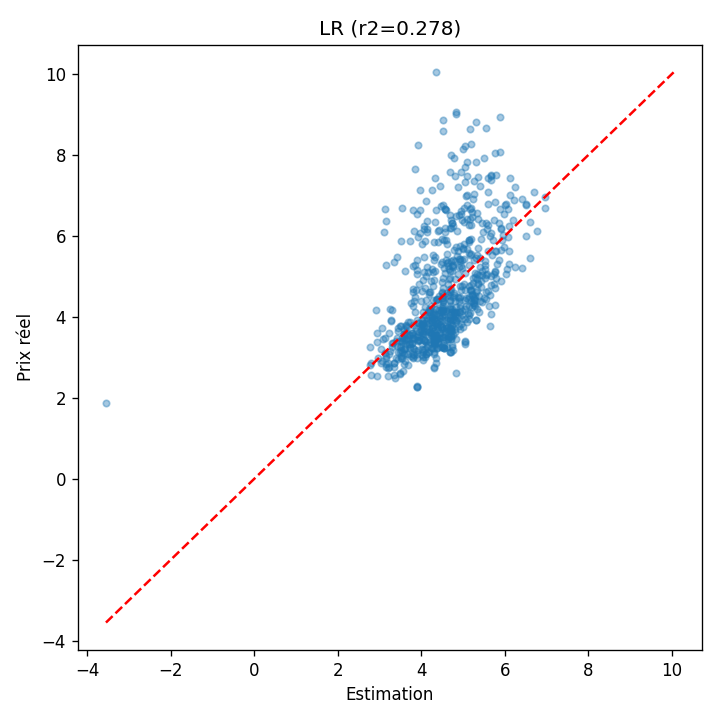
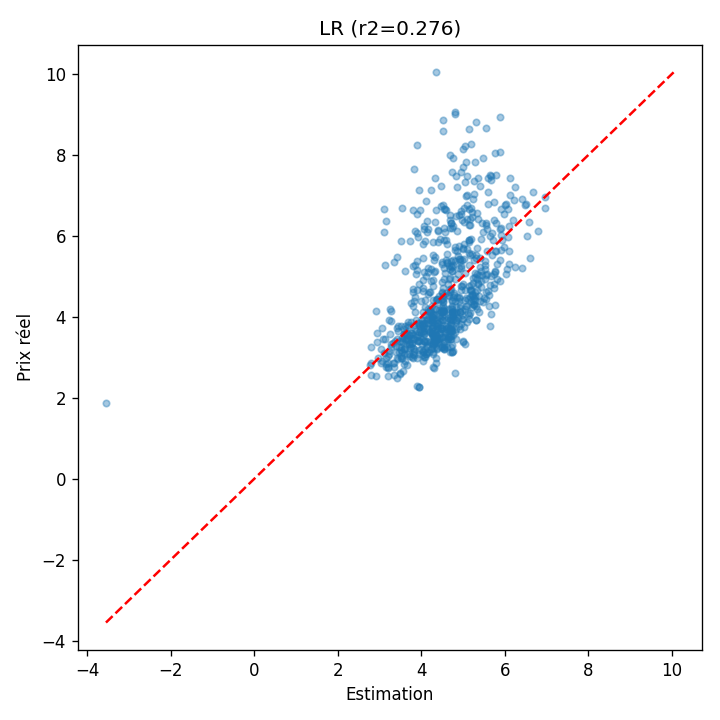
Refine ML pipelines and admin UX
This commit fixes a jump-alignment bug in the Java Chicks walking state, simplifies the F1 speed-state transition logic, and centralizes Laravel search handling with reusable empty-table row components across admin pages. It also refactors Python ML evaluation helpers, normalizes mushroom shape/surface parsing, and updates the wine-model pipeline to avoid train/test leakage when imputing missing critic scores, with refreshed metrics and figures.

diff --git a/PYTHON/immo-ml/main.py b/PYTHON/immo-ml/main.py
@@ -212,6 +212,14 @@ def normaliser(serie):
              .str.replace(r"(franconville).*", "franconville", regex=True)
     )
 
+def evaluer(modele, X_tr, y_tr, X_te, y_te, pre=None):
+    if pre == "norm":
+        modele = make_pipeline(MinMaxScaler(), modele)
+    elif pre == "std":
+        modele = make_pipeline(StandardScaler(), modele)
+    modele.fit(X_tr, y_tr)
+    return modele.score(X_te, y_te), modele.predict(X_te)
+
 def main():
     annonces = pd.read_csv(os.path.join(DATA_DIR, 'annonces.csv'))
     avant = len(annonces)
@@ -261,17 +269,9 @@ def main():
         annonces.loc[X_train.index, col] = X_train[col]
         annonces.loc[X_test.index, col] = X_test[col]
 
-    lr = LinearRegression()
-    lr.fit(X_train, y_train)
-    r2_lr = lr.score(X_test, y_test)
-
-    pipe_lr_norm = make_pipeline(MinMaxScaler(), LinearRegression())
-    pipe_lr_norm.fit(X_train, y_train)
-    r2_lr_norm = pipe_lr_norm.score(X_test, y_test)
-
-    pipe_lr_std = make_pipeline(StandardScaler(), LinearRegression())
-    pipe_lr_std.fit(X_train, y_train)
-    r2_lr_std = pipe_lr_std.score(X_test, y_test)
+    r2_lr, _ = evaluer(LinearRegression(), X_train, y_train, X_test, y_test)
+    r2_lr_norm, _ = evaluer(LinearRegression(), X_train, y_train, X_test, y_test, pre="norm")
+    r2_lr_std, _ = evaluer(LinearRegression(), X_train, y_train, X_test, y_test, pre="std")
 
     # recherche du meilleur max_depth par validation croisée sur le train (le test reste inutilisé jusqu'à l'évaluation finale)
     best_depth = 4
@@ -284,17 +284,9 @@ def main():
             best_depth = depth
     print(f"  \nMeilleur max_depth : {best_depth} (R² CV moyen={best_score_ad:.4f})")
 
-    ad = DecisionTreeRegressor(max_depth=best_depth, random_state=49)
-    ad.fit(X_train, y_train)
-    r2_ad = ad.score(X_test, y_test)
-
-    pipe_ad_norm = make_pipeline(MinMaxScaler(), DecisionTreeRegressor(max_depth=best_depth, random_state=49))
-    pipe_ad_norm.fit(X_train, y_train)
-    r2_ad_norm = pipe_ad_norm.score(X_test, y_test)
-
-    pipe_ad_std = make_pipeline(StandardScaler(), DecisionTreeRegressor(max_depth=best_depth, random_state=49))
-    pipe_ad_std.fit(X_train, y_train)
-    r2_ad_std = pipe_ad_std.score(X_test, y_test)
+    r2_ad, _ = evaluer(DecisionTreeRegressor(max_depth=best_depth, random_state=49), X_train, y_train, X_test, y_test)
+    r2_ad_norm, _ = evaluer(DecisionTreeRegressor(max_depth=best_depth, random_state=49), X_train, y_train, X_test, y_test, pre="norm")
+    r2_ad_std, _ = evaluer(DecisionTreeRegressor(max_depth=best_depth, random_state=49), X_train, y_train, X_test, y_test, pre="std")
 
     # recherche du meilleur n_neighbors par validation croisée sur le train (le test reste inutilisé jusqu'à l'évaluation finale)
     best_k = 4
@@ -307,17 +299,9 @@ def main():
             best_k = k
     print(f"  \nMeilleur k : {best_k} (R² CV moyen={best_score_knn:.4f})")
 
-    knn = KNeighborsRegressor(n_neighbors=best_k)
-    knn.fit(X_train, y_train)
-    r2_knn = knn.score(X_test, y_test)
-
-    pipe_knn_norm = make_pipeline(MinMaxScaler(), KNeighborsRegressor(n_neighbors=best_k))
-    pipe_knn_norm.fit(X_train, y_train)
-    r2_knn_norm = pipe_knn_norm.score(X_test, y_test)
-
-    pipe_knn_std = make_pipeline(StandardScaler(), KNeighborsRegressor(n_neighbors=best_k))
-    pipe_knn_std.fit(X_train, y_train)
-    r2_knn_std = pipe_knn_std.score(X_test, y_test)
+    r2_knn, _ = evaluer(KNeighborsRegressor(n_neighbors=best_k), X_train, y_train, X_test, y_test)
+    r2_knn_norm, _ = evaluer(KNeighborsRegressor(n_neighbors=best_k), X_train, y_train, X_test, y_test, pre="norm")
+    r2_knn_std, predictions = evaluer(KNeighborsRegressor(n_neighbors=best_k), X_train, y_train, X_test, y_test, pre="std")
 
     best_lr = max(r2_lr, r2_lr_norm, r2_lr_std)
     best_ad = max(r2_ad, r2_ad_norm, r2_ad_std)
@@ -337,7 +321,6 @@ def main():
     print(f"  \nTableau récapitulatif (AD: max_depth={best_depth}, KNN: k={best_k}) :")
     print(resultats)
 
-    predictions = pipe_knn_std.predict(X_test)
     plt.figure(figsize=(8, 6))
     plt.scatter(y_test, predictions, alpha=0.6, label="Estimations")
     plt.plot([y_test.min(), y_test.max()], [y_test.min(), y_test.max()], 'r--', lw=2, label="Diagonale")

diff --git a/PYTHON/wine-ml/main.py b/PYTHON/wine-ml/main.py
@@ -328,8 +328,12 @@ def nettoyer(chemin_csv="vins.csv", chemin_sortie="vins_clean.csv"):
     vins = vins.dropna(subset=["Prix"]).reset_index(drop=True)
     print("Prix nettoyé.")
 
+    # Moyennes calculées uniquement sur les lignes d'entraînement (même split que
+    # preparer_donnees : même n_samples + même random_state), pour que le test n'influence
+    # pas l'imputation des notes manquantes.
+    train_idx = _indices_entrainement(len(vins))
     for c in CRITIQUES:
-        moy = moyenne_par_appellation(vins, c)
+        moy = moyenne_par_appellation(vins.iloc[train_idx], c)
         vins = vins.merge(moy, on="Appellation", how="left")
         vins[c] = vins[c].fillna(vins[c + "_moy"]).fillna(0)
         vins = vins.drop(columns=[c + "_moy"])

diff --git a/LARAVEL/EDT/resources/views/admin/teachers/index.blade.php b/LARAVEL/EDT/resources/views/admin/teachers/index.blade.php
@@ -35,7 +35,7 @@
                         </td>
                     </tr>
                 @empty
-                    <tr><td colspan="6" class="py-2 text-gray-400">Aucun enseignant.</td></tr>
+                    <x-empty-row colspan="6">Aucun enseignant.</x-empty-row>
                 @endforelse
             </tbody>
         </table>
@@ -68,7 +68,7 @@
                         </td>
                     </tr>
                 @empty
-                    <tr><td colspan="3" class="py-2 text-gray-400">Aucune matière.</td></tr>
+                    <x-empty-row colspan="3">Aucune matière.</x-empty-row>
                 @endforelse
             </tbody>
         </table>

diff --git a/JAVA/Chicks/src/model/characters/states/Walking.java b/JAVA/Chicks/src/model/characters/states/Walking.java
@@ -11,7 +11,7 @@ public class Walking implements CharacterState {
         int nextX = character.getX() + direction;
         if (isAtBoundary(character, nextX, direction) || isBlockerAhead(character)) reverse(character);
         else if (isFalling(character)) character.setState(new Falling());
-        else if (PhysicsHelper.canJump(character) && character.getX() % cell == 0) character.setState(new Jumping());
+        else if (PhysicsHelper.canJump(character) && PhysicsHelper.isAlignedX(character)) character.setState(new Jumping());
         else if (isCollision(character)) reverse(character);
         else character.setX(character.getX() + direction);
     }

diff --git a/PYTHON/mushroom-ml/main.py b/PYTHON/mushroom-ml/main.py
@@ -78,11 +78,14 @@ def _champ(soup, label):
 def color(soup):
     return '-'.join(_champ(soup, 'Color:'))
 
+def _champ_normalise(soup, label):
+    return '-'.join(v.replace(' ', '').replace('-', '') for v in _champ(soup, label))
+
 def shape(soup):
-    return '-'.join(v.replace(' ', '').replace('-', '') for v in _champ(soup, 'Shape:'))
+    return _champ_normalise(soup, 'Shape:')
 
 def surface(soup):
-    return '-'.join(v.replace(' ', '').replace('-', '') for v in _champ(soup, 'Surface:'))
+    return _champ_normalise(soup, 'Surface:')
 
 def csv_info(url):
     response = fetch(url)

diff --git a/LARAVEL/EDT/app/Http/Controllers/Controller.php b/LARAVEL/EDT/app/Http/Controllers/Controller.php
@@ -6,11 +6,17 @@ use App\Models\Student;
 use App\Models\Teacher;
 use Illuminate\Database\Eloquent\Model;
 use Illuminate\Http\RedirectResponse;
+use Illuminate\Http\Request;
 use Illuminate\Support\Facades\DB;
 
 abstract class Controller
 {
     protected const PER_PAGE = 10;
+
+    protected function searchTerm(Request $request): string
+    {
+        return $request->string('search')->trim()->toString();
+    }
 
     protected function deleteUnlessInUse(Model $model, bool $inUse, string $route, string $inUseMessage, string $deletedMessage): RedirectResponse
     {

diff --git a/JAVA/F1/src/controller/GameController.java b/JAVA/F1/src/controller/GameController.java
@@ -18,9 +18,7 @@ public class GameController {
         if (delta > 0 && state == Car.State.BOOST) return ChangeSpeedError.ALREADY_BOOSTED;
         if (delta < 0 && state == Car.State.STOPPED) return ChangeSpeedError.ALREADY_STOPPED;
 
-        Car.State next = nextState(state, delta);
-        if (next == null) return null;
-        car.setState(next);
+        car.setState(nextState(state, delta));
         if (delta < 0) car.brake();
         return null;
     }

diff --git a/LARAVEL/EDT/resources/views/admin/licences/index.blade.php b/LARAVEL/EDT/resources/views/admin/licences/index.blade.php
@@ -44,7 +44,7 @@
                             </td>
                         </tr>
                     @empty
-                        <tr><td colspan="5" class="py-2 text-gray-400">Aucun groupe dans cette licence.</td></tr>
+                        <x-empty-row colspan="5">Aucun groupe dans cette licence.</x-empty-row>
                     @endforelse
                 </tbody>
             </table>

diff --git a/LARAVEL/EDT/app/Http/Controllers/AdminTeacherController.php b/LARAVEL/EDT/app/Http/Controllers/AdminTeacherController.php
@@ -22,7 +22,7 @@ class AdminTeacherController extends Controller
 {
     public function index(Request $request): View
     {
-        $search = $request->string('search')->trim()->toString();
+        $search = $this->searchTerm($request);
 
         return view('admin.teachers.index', [
             'teachers' => Teacher::with(['user', 'subjects', 'licences'])->withCount('lessons')

diff --git a/LARAVEL/EDT/app/Http/Controllers/AdminStudentController.php b/LARAVEL/EDT/app/Http/Controllers/AdminStudentController.php
@@ -19,7 +19,7 @@ class AdminStudentController extends Controller
 {
     public function index(Request $request): View
     {
-        $search = $request->string('search')->trim()->toString();
+        $search = $this->searchTerm($request);
 
         return view('admin.students.index', [
             'students' => Student::with(['user', 'group.licence'])

diff --git a/LARAVEL/EDT/resources/views/admin/students/index.blade.php b/LARAVEL/EDT/resources/views/admin/students/index.blade.php
@@ -30,7 +30,7 @@
                         </td>
                     </tr>
                 @empty
-                    <tr><td colspan="6" class="py-2 text-gray-400">Aucun étudiant.</td></tr>
+                    <x-empty-row colspan="6">Aucun étudiant.</x-empty-row>
                 @endforelse
             </tbody>
         </table>

diff --git a/LARAVEL/EDT/resources/views/admin/rooms/index.blade.php b/LARAVEL/EDT/resources/views/admin/rooms/index.blade.php
@@ -23,7 +23,7 @@
                         </td>
                     </tr>
                 @empty
-                    <tr><td colspan="4" class="py-2 text-gray-400">Aucune salle.</td></tr>
+                    <x-empty-row colspan="4">Aucune salle.</x-empty-row>
                 @endforelse
             </tbody>
         </table>
